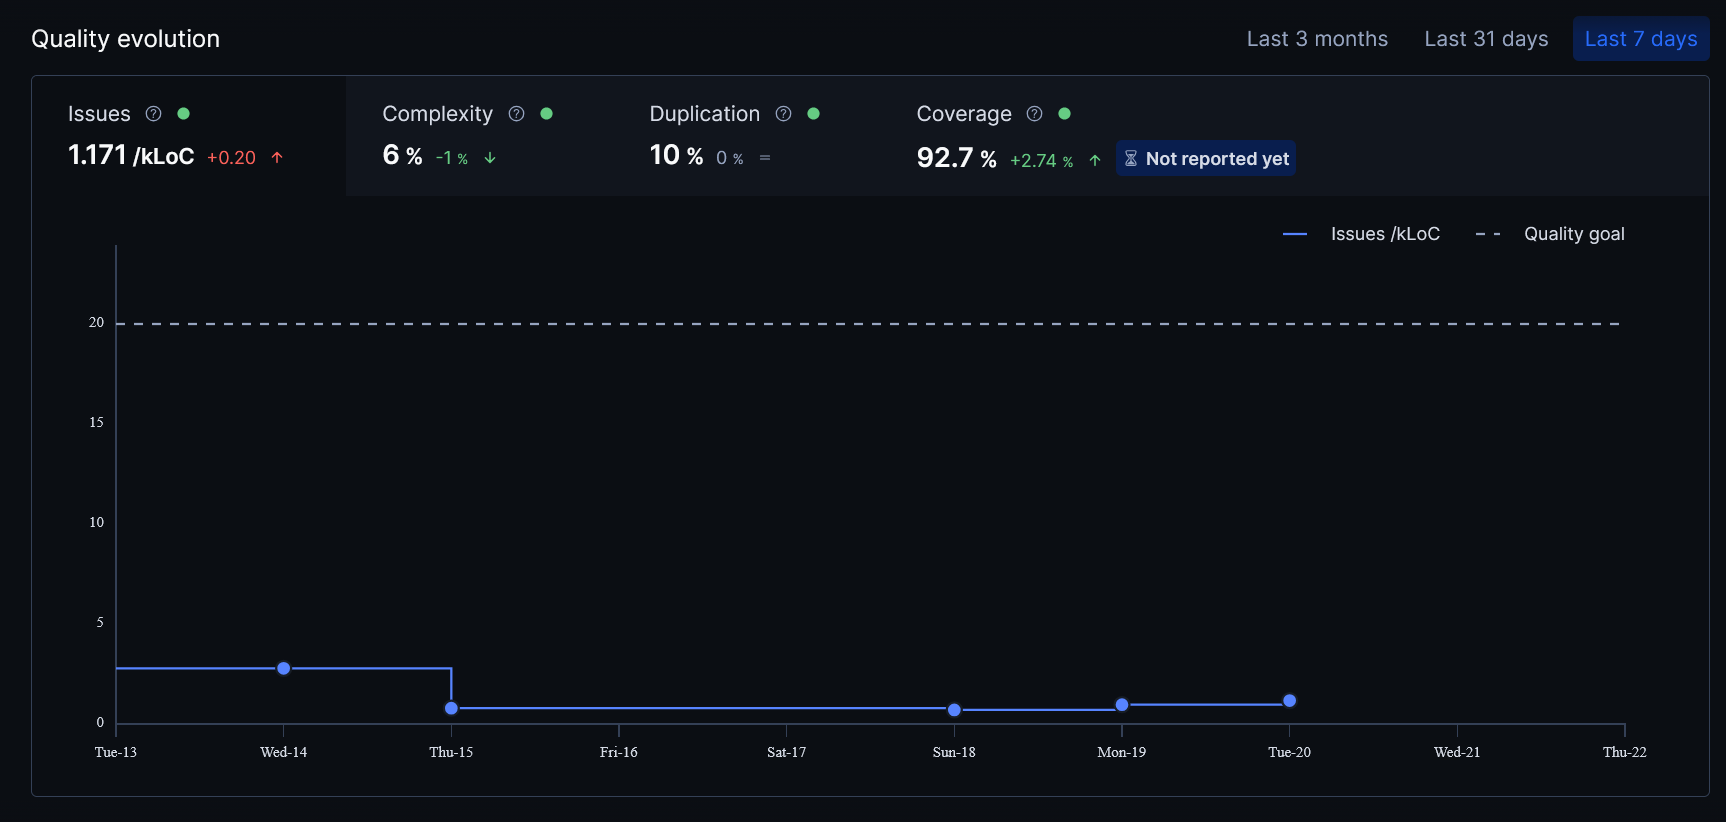
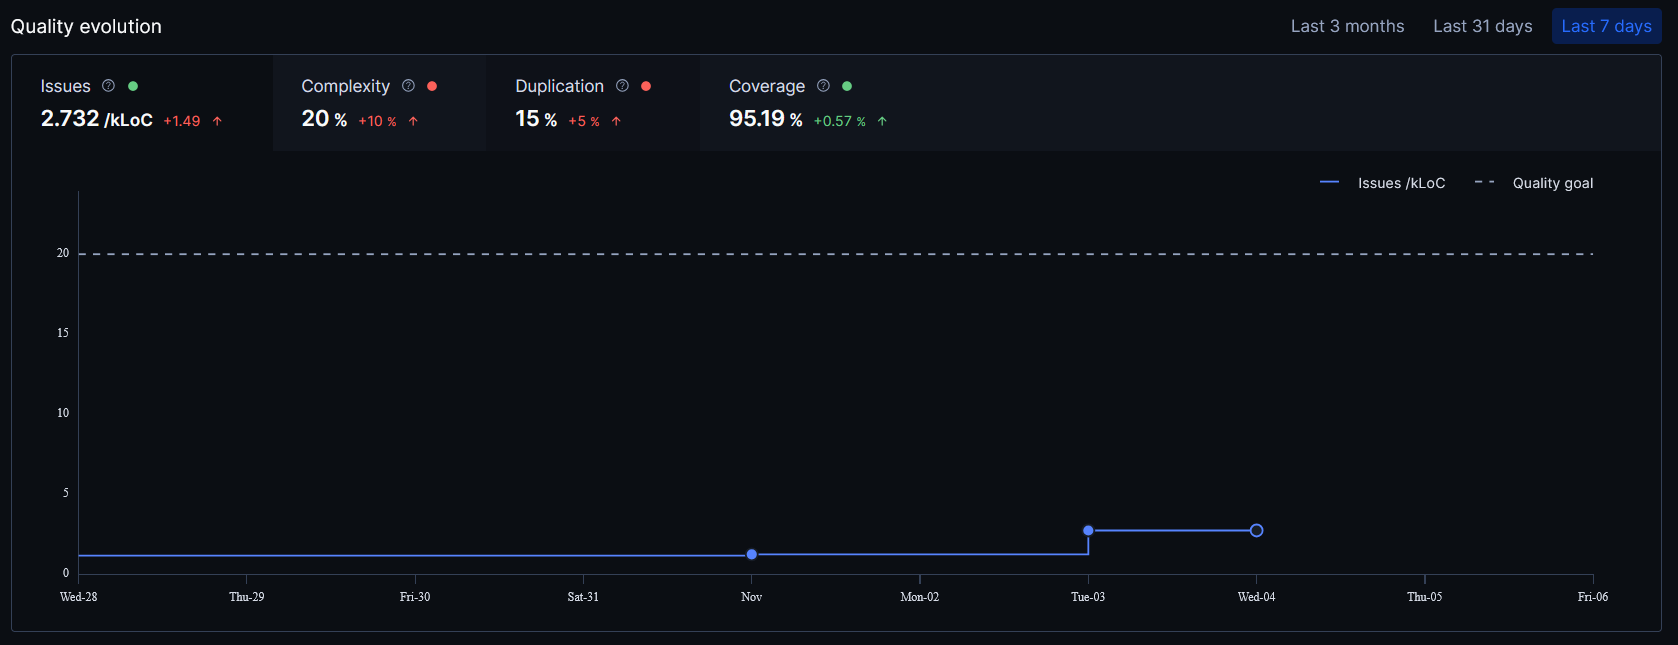
docs: add CP2 screenshots, e2e run log and fix Codacy counts (#75)
Replace the CI run, coverage and Codacy screenshots with ones from
4631daf, and split the "Others" issues over two images. Add the
run-frontend-e2e-tests log with each test's result to Testing.md 4.2.
Remove planner.route.ts#L7 from the no-misused-promises
justification, since the /chained route it pointed to was deleted and
Codacy no longer flags that line.

diff --git a/documentation/Testing.md b/documentation/Testing.md
@@ -199,9 +199,43 @@ Unit tests for the app's logic, such as sign-in routing and sign-out, are in `fr
     | 5c. No route exists for any allowed mode. | Not automated yet: Google finds a route between any two places the search offers in Metro Vancouver. |
     | 5d. Google Routes can't be reached, even after one retry. | Not automated yet: causing it needs a mocked backend, and these tests use the real one. Any run where it happens fails in the wait in step 4. The mocked backend tests of `POST /api/routes/plan` check the `503` itself. |
 
-  - **Test Logs:**
+  - **Test Logs:** The run of `scripts/run-frontend-e2e-tests.sh` on 2026-11-04, on the Pixel 9 emulator (API 36). The Docker and Gradle build output is trimmed. Gradle's console only prints totals, so each test's result below comes from the run's JUnit report in `frontend/app/build/outputs/androidTest-results/connected/debug/`.
     ```
-    [Add the run log of scripts/run-frontend-e2e-tests here, with each test's passed or failed status.]
+    $ bash scripts/run-frontend-e2e-tests.sh
+    ==> Starting backend (scripts/run-backend.sh) ...
+     ✔ Image cpen321-project-backend       Built
+     ✔ Container cpen321-project-mongo-1   Healthy
+     ✔ Container cpen321-project-backend-1 Running
+    ==> Backend is up. Stop with: docker compose down
+    ==> Emulator already running.
+    ==> Building and installing app...
+    Installed on 1 device.
+    BUILD SUCCESSFUL in 25s
+    ==> Launching app...
+    ==> Done. Sign in on the emulator to verify.
+    ==> Running frontend E2E tests (com.example.cpen321application.e2e.BackButtonTest,com.example.cpen321application.e2e.NavBarTest,com.example.cpen321application.e2e.PlanTripTest,com.example.cpen321application.e2e.QuestionnaireBackTest) ...
+
+    > Task :app:connectedDebugAndroidTest
+    Starting 12 tests on Pixel_9(AVD) - 16
+    Pixel_9(AVD) - 16 Tests 12/12 completed. (0 skipped) (0 failed)
+    Finished 12 tests on Pixel_9(AVD) - 16
+
+    BUILD SUCCESSFUL in 2m 16s
+    ==> Frontend E2E tests finished.
+
+    Results (JUnit report, 12 tests, 0 failures, 0 errors, 0 skipped):
+    PASSED  PlanTripTest.driveWithNoParkingSpotsShowsTheBanner          21.36 s
+    PASSED  PlanTripTest.plansUpToThreeRoutesAndPreviewsOne             25.58 s
+    PASSED  BackButtonTest.backOnSignInExitsApp                          3.87 s
+    PASSED  BackButtonTest.backOnMainExitsApp                            3.20 s
+    PASSED  NavBarTest.barIsHiddenOnTheEditScreenAndBackReturnsToProfile 5.10 s
+    PASSED  NavBarTest.tabKeepsItsPlaceWhenSwitchingAwayAndBack          5.54 s
+    PASSED  NavBarTest.backFromHistoryOrProfileGoesToMap                 8.58 s
+    PASSED  NavBarTest.opensOnMapWithMapSelected                         3.01 s
+    PASSED  NavBarTest.historyTabShowsTheHistoryScreen                   3.48 s
+    PASSED  QuestionnaireBackTest.keepGoingClosesTheDialog               3.27 s
+    PASSED  QuestionnaireBackTest.signOutSignsOut                        3.14 s
+    PASSED  QuestionnaireBackTest.backAgainClosesTheDialog               3.05 s
     ```
 
 - **Use Case: Preview Route** ([Requirements_and_Design.md, Use Case 2](Requirements_and_Design.md#uc2))

diff --git a/documentation/Code_Review.md b/documentation/Code_Review.md
@@ -31,7 +31,9 @@ This is the last commit on `main` that changes code, the same one the tests run 
 
 The issues under the "Others" category are:
 
-![The issues under the "Others" code pattern group](images/codacy-issues-others.png)
+![The issues under the "Others" code pattern group, part 1](images/codacy-issues-others.png)
+
+![The issues under the "Others" code pattern group, part 2](images/codacy-issues-others-2.png)
 
 ### 2.4. Justifications for Unfixed Issues
 
@@ -41,7 +43,7 @@ Every issue left open in 2.2 and 2.3 is listed below, grouped by code pattern. E
 
   1. **Issues**
 
-     - **Location in Git:** [`backend/src/routes/auth.route.ts#L7`](../backend/src/routes/auth.route.ts#L7), [`#L8`](../backend/src/routes/auth.route.ts#L8), [`backend/src/routes/users.route.ts#L15`](../backend/src/routes/users.route.ts#L15) to [`#L27`](../backend/src/routes/users.route.ts#L27) (13 issues, one per route), [`backend/src/routes/planner.route.ts#L7`](../backend/src/routes/planner.route.ts#L7), and the 3 issues ignored in Codacy in CP1 on [`backend/src/routes/vehicles.route.ts#L7`](../backend/src/routes/vehicles.route.ts#L7) and [`#L8`](../backend/src/routes/vehicles.route.ts#L8)
+     - **Location in Git:** [`backend/src/routes/auth.route.ts#L7`](../backend/src/routes/auth.route.ts#L7), [`#L8`](../backend/src/routes/auth.route.ts#L8), [`backend/src/routes/users.route.ts#L15`](../backend/src/routes/users.route.ts#L15) to [`#L27`](../backend/src/routes/users.route.ts#L27) (13 issues, one per route), and the 3 issues ignored in Codacy in CP1 on [`backend/src/routes/vehicles.route.ts#L7`](../backend/src/routes/vehicles.route.ts#L7) and [`#L8`](../backend/src/routes/vehicles.route.ts#L8)
      - **Justification:** The rule's `checksVoidReturn` option reports a promise-returning function passed where a function returning `void` is expected, because a plain callback that returns a promise can lose its rejection ([typescript-eslint: no-misused-promises](https://typescript-eslint.io/rules/no-misused-promises/#checksvoidreturn)). Express 5 route handlers don't have that problem. Express documents that "starting with Express 5, route handlers and middleware that return a Promise will call `next(value)` automatically when they reject or throw an error" ([Express: Error Handling](https://expressjs.com/en/guide/error-handling.html#catching-errors)), so every rejection from `requireSession` or a controller reaches our error handler. Express 5's own types (`@types/express-serve-static-core` 5) declare a handler's return type as `unknown`, not `void`, so with the installed types the rule has nothing to report. Codacy reports it because its analysis doesn't load the project's installed type definitions. The mocked API tests show it in practice: a failing database call returns a 500 instead of crashing the server. Wrapping every handler to silence the rule would add code that does nothing Express 5 doesn't already do.
 
 - **Code Pattern: Unsafe return of an error typed value, unsafe argument, and redundant type constituents** (`@typescript-eslint/no-unsafe-return`, `@typescript-eslint/no-unsafe-argument`, `@typescript-eslint/no-redundant-type-constituents`)
